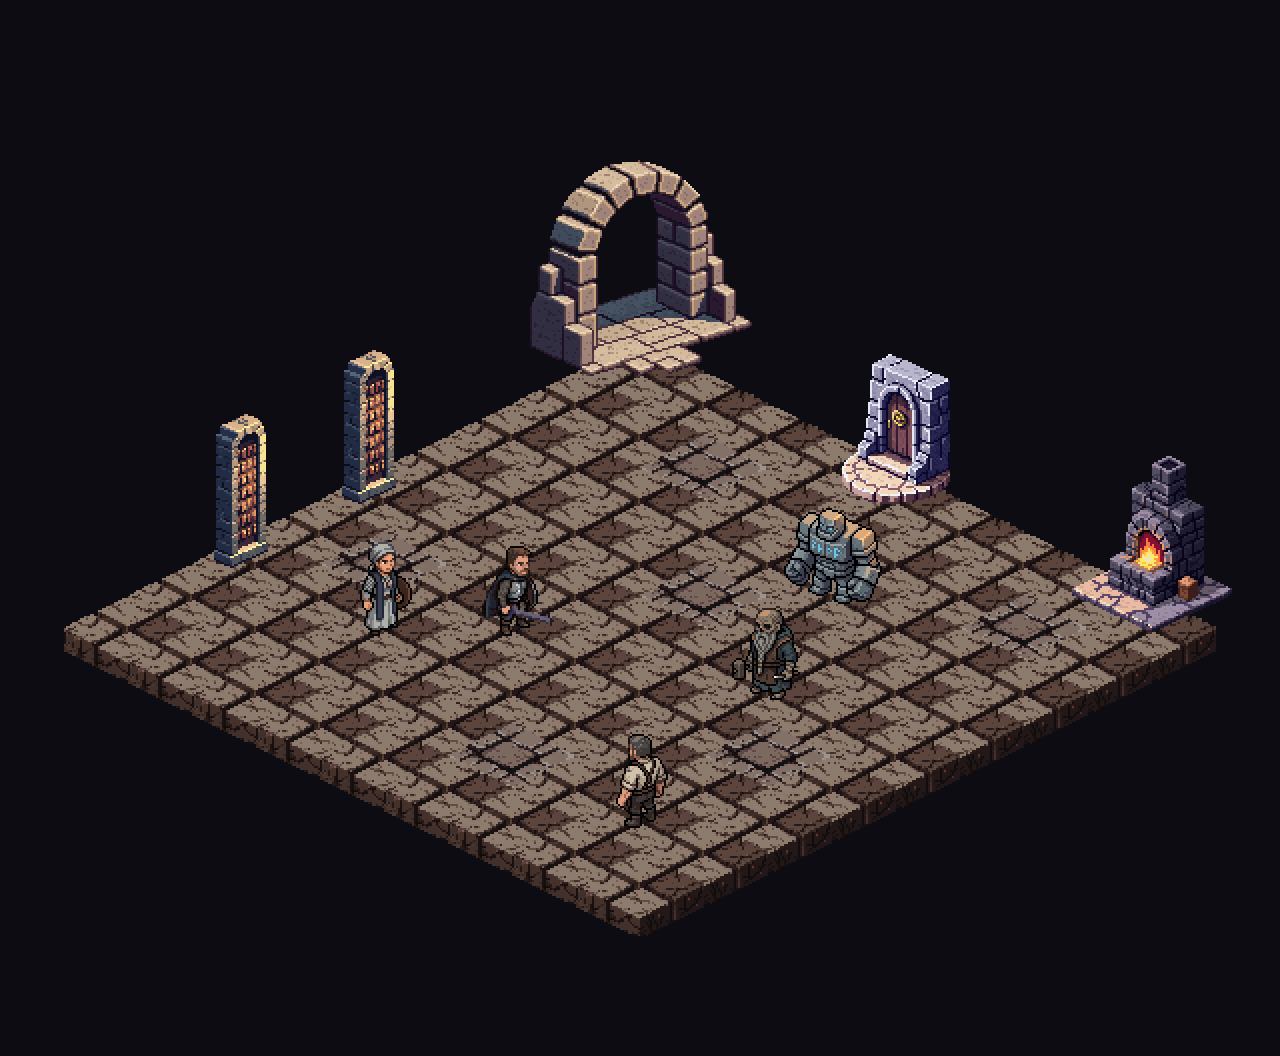
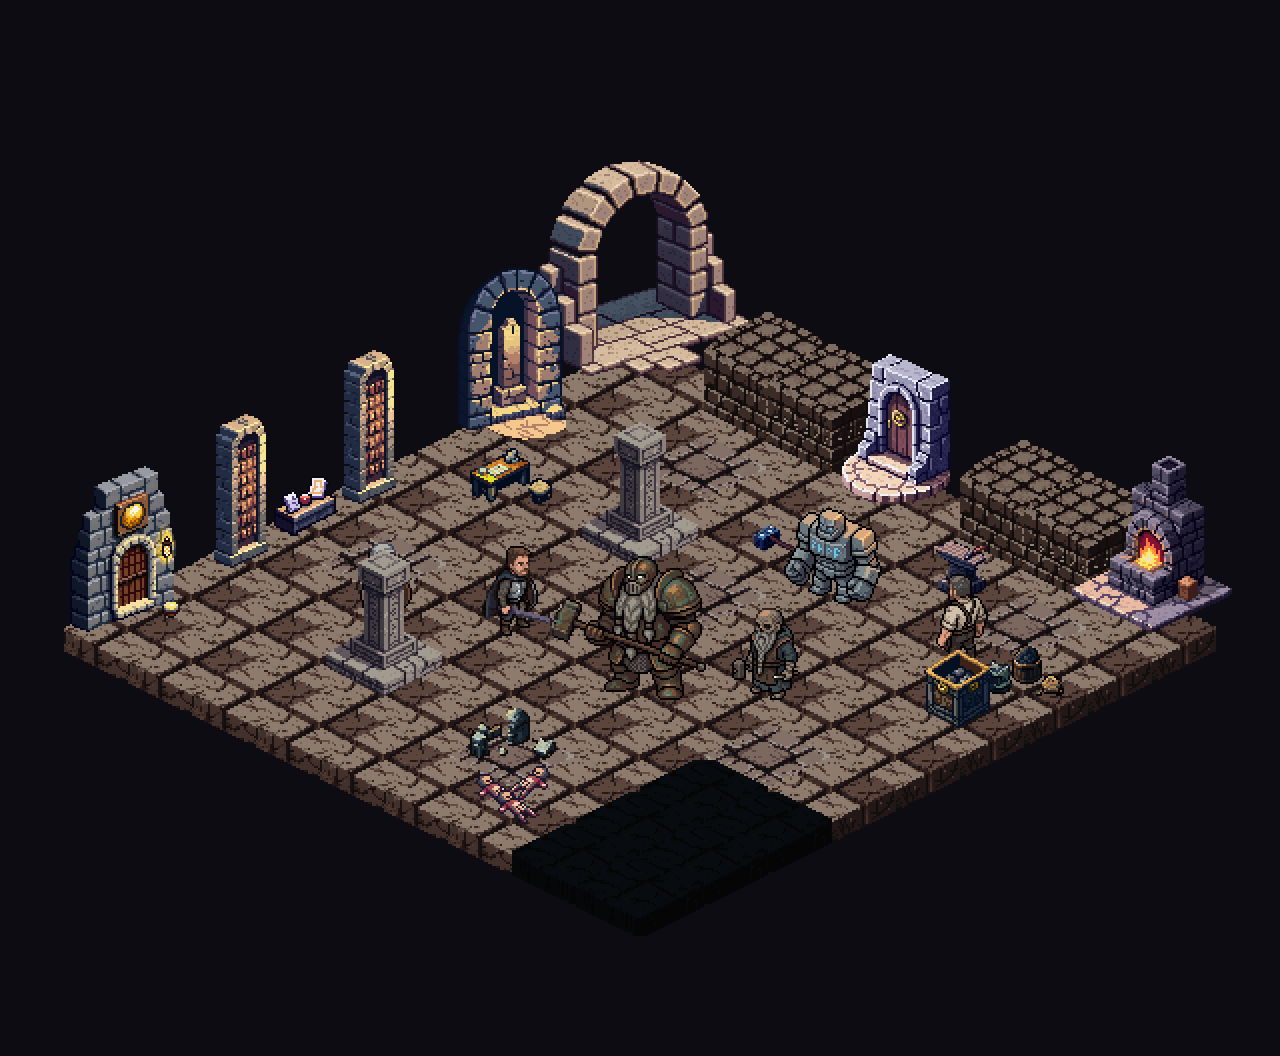
Глава 3: вторая партия графики залов, тайлы в боях и импорте
Пол пропасти, 15 предметов залов, основа Торвина; стены — кубы через iso-тайл
(объектами выходили домиками с дверью), часть вариантов доведена вручную (ch3_preview.py).
Бои залов получили тайлы (GROUND_ART dwarf*), import_art — бойцов и статику главы 3.

Claude-Session: https://claude.ai/code/session_01BjrJpKhoF5VFfF6rGeYCho

diff --git a/art/tools/ch3_batch2.py b/art/tools/ch3_batch2.py
@@ -2,6 +2,7 @@
 и основа Торвина. Как ch3_batch1.py: предметы по два seed в variants/, персонажи — основы в стиле Гаррета.
 
     python3 art/tools/ch3_batch2.py [tiles|chars|имя ...]     # --reroll имя... — ещё seed 3 и 4
+    python3 art/tools/ch3_batch2.py --blocks                  # стены кубами, variants/<имя>_b<seed>.png
 """
 import sys
 from pathlib import Path
@@ -14,11 +15,11 @@ from ch3_batch1 import CHARS_OUT, HALLS, run_jobs
 SETS = {
  "dwarf": {
   "tiles": {
-   "floor_chasm": FLAT + "a bottomless dark chasm seen from above, near-black void with a faint pale green-white glow far below through cracks, no rim, no border, seamless edges",
+   "floor_chasm": FLAT + "a bottomless chasm seen from above, an even near-black void with only very faint dark blue-grey mist, completely uniform, no light spots, no objects, no rim, no border, seamless edges",
   },
   "objects": {
-   "wall_block": (HALLS + "a solid block of dwarven masonry wall, large precisely cut warm-grey stone blocks, a cube filling the tile", 64, 64),
-   "wall_runes": (HALLS + "a solid block of dwarven masonry wall with one deep-cut line of angular runes, warm-grey stone, a cube filling the tile", 64, 64),
+   "wall_block": (HALLS + "a plain solid cube of dwarven masonry, large precisely cut warm-grey stone blocks on every face, flat grey stone top, no door, no window, no roof, no light", 64, 64),
+   "wall_runes": (HALLS + "a plain solid cube of dwarven masonry, large cut warm-grey stone blocks, one deep-cut band of angular runes across the front faces, flat grey stone top, no door, no window, no roof, no light", 64, 64),
    "rune_column": (HALLS + "a square carved dwarven stone column with angular runes on each face and a heavy capital", 64, 96),
    "stone_niche": (HALLS + "an empty tall stone wall niche carved in the rock where a stone guardian statue used to stand, broken stone fragments at its foot", 64, 96),
    "rune_brazier": (HALLS + "a squat dwarven stone brazier bowl on a carved rune pedestal with small warm flames", 32, 64),
@@ -28,13 +29,30 @@ SETS = {
    "coal_heap": (HALLS + "a heap of black coal with a shovel stuck in it beside a wooden barrow", 64, 64),
    "brew_door": (HALLS + "a low heavy wooden door bound with iron set in a carved stone wall, a carved tankard sign above it", 64, 96),
    "scribe_desk": (HALLS + "a low stone writing desk covered with thin rune tablets, stone chisels and a small mallet, a stone stool", 64, 64),
-   "child_tablets": (HALLS + "a small side niche with a short stone shelf of small thin rune tablets with large clumsy runes, a child's practice slate on top", 64, 64),
-   "floor_slab": (HALLS + "a single square floor slab lying very slightly raised, dust disturbed around its edges, flat on the ground", 64, 64),
-   "bones": (HALLS + "five human skeletons in tattered miner jackets lying close together against a rockfall, broken pickaxes, flat on the ground", 64, 64),
+   "child_tablets": (HALLS + "a single small low stone shelf, a free-standing object with no walls and no room, holding a few small thin stone tablets with large clumsy runes and a child's practice slate", 64, 64),
+   "floor_slab": (HALLS + "one loose square flagstone lying flat, a single isolated object with no walls and no room around it, its edges slightly raised and scraped, a thin ring of disturbed dust", 64, 64),
+   "bones": (HALLS + "several human skeletons in tattered miner jackets lying flat on their backs on the ground in a heap, seen from above, broken pickaxes beside them, nothing standing", 64, 64),
    "warhammer": (HALLS + "a huge dwarven long-hafted warhammer with an iron head lying flat on the stone floor", 64, 64),
   },
  },
 }
+# Стены объектами выходят домиками с дверью (seed 1–4); как в ch1_batch3.py — куб через create-isometric-tile (block).
+BLOCKS = {
+ "wall_block": "solid cube of dwarven masonry, large precisely cut warm-grey stone blocks on all visible faces, "
+               "the wall of an underground dwarven hall, no door, no window, no torch, no floor",
+ "wall_runes": "solid cube of dwarven masonry, large cut warm-grey stone blocks, one band of deep-cut angular runes "
+               "across the faces, the wall of an underground dwarven hall, no door, no window, no torch, no floor",
+}
+VARIANTS = p.ROOT / "art" / "chapter3" / "tiles" / "dwarf" / "variants"
+
+
+def block(name, seed):
+    out = VARIANTS / f"{name}_b{seed}.png"
+    if out.exists():
+        return out
+    return p.iso_tile(name, BLOCKS[name] + ", " + p.STYLE_ISO, out, shape="block", seed=seed)
+
+
 CHARS = {
  "torvin": "a huge undead dwarf warrior, the last keeper of the seal, broad and armoured in heavy green-patinaed bronze plate, very long grey beard braided with iron rings down to the belt, a riveted iron muzzle plate where the mouth should be, empty pale eyes, a long-hafted warhammer held in both hands, ",
 }
@@ -53,6 +71,12 @@ def char(name, desc):
 if __name__ == "__main__":
     args = sys.argv[1:]
     jobs, chars = [], []
+    if args[:1] == ["--blocks"]:
+        for n in BLOCKS:
+            for seed in (1, 2):
+                print("ok", block(n, seed).name, flush=True)
+        print(p.balance()["subscription"])
+        sys.exit()
     if args[:1] == ["--reroll"]:
         names = set(args[1:])
         jobs = [(k, s, n, sp, seed) for s in SETS for k in ("tiles", "objects") for n, sp in SETS[s][k].items()

diff --git a/art/tools/ch3_preview.py b/art/tools/ch3_preview.py
@@ -15,18 +15,32 @@ C3 = A / "chapter3/characters"
 """floor_hall_5, floor_rune_5 — floor_hall_4, floor_rune_3 с приглушённой насыщенностью (0.38) и яркостью (0.72)."""
 PICK = {"floor_hall": "floor_hall_5", "floor_rune": "floor_rune_5", "great_forge": "great_forge_1",
         "riddle_door": "riddle_door_1", "rune_arch": "rune_arch_2", "tablet_shelf": "tablet_shelf_2"}
-EXTRA = {}  # имя → вариант, добавляется партиями 2+
+"""wall_block_b5 — куб wall_runes_b2 в палитре floor_hall_5 (по яркости, ×0.92); wall_runes_b5 — он же с полосой
+вырезанных рун (рисованы); floor_chasm_5 — floor_chasm_4, контраст 0.35, яркость 0.55; rune_column_5 — rune_column_1 (цвет 0.6, яркость 0.68).
+floor_slab_5 — floor_slab_3 приглушённый (0.35, 0.8); bones_5 — три скелета из bones_4 (один отражён)."""
+EXTRA = {"floor_chasm": "floor_chasm_5", "wall_block": "wall_block_b5", "wall_runes": "wall_runes_b5",
+         "rune_column": "rune_column_5", "stone_niche": "stone_niche_2", "rune_brazier": "rune_brazier_1",
+         "rubble": "rubble_2", "anvil": "anvil_1", "steel_chest": "steel_chest_2", "coal_heap": "coal_heap_2",
+         "brew_door": "brew_door_2", "scribe_desk": "scribe_desk_2", "child_tablets": "child_tablets_4",
+         "floor_slab": "floor_slab_5", "bones": "bones_5", "warhammer": "warhammer_1"}
 N = 9
 SCENE = dict(
-    map=["hhhhhhhhh", "hhrhhhhrh", "hhhhhhhhh", "hhhhrhhhh", "hhhhhhhhh", "hrhhhhhrh", "hhhhhhhhh", "hhhhhrhhh", "hhhhhhhhh"],
-    key={"h": T / "floor_hall.png", "r": T / "floor_rune.png"},
+    map=["hhhhhhhhh", "hhrhhhhrh", "hhhhhhhhh", "hhhhrhhhh", "hhhhhhhhh", "hrhhhhhrh", "hhhhhhhcc", "hhhhhrhcc", "hhhhhhhcc"],
+    key={"h": T / "floor_hall.png", "r": T / "floor_rune.png", "c": T / "floor_chasm.png"},
     objs={(0, 0): T / "rune_arch.png", (4, 0): T / "riddle_door.png", (0, 4): T / "tablet_shelf.png",
-          (0, 6): T / "tablet_shelf.png", (8, 0): T / "great_forge.png"},
+          (0, 6): T / "tablet_shelf.png", (8, 0): T / "great_forge.png",
+          (2, 0): T / "wall_block.png", (3, 0): T / "wall_runes.png", (6, 0): T / "wall_block.png",
+          (7, 0): T / "wall_runes.png", (0, 2): T / "stone_niche.png", (0, 8): T / "brew_door.png",
+          (6, 1): T / "anvil.png", (8, 2): T / "coal_heap.png", (8, 3): T / "steel_chest.png",
+          (3, 3): T / "rune_column.png", (3, 7): T / "rune_column.png", (2, 2): T / "rune_brazier.png",
+          (1, 3): T / "scribe_desk.png", (0, 5): T / "child_tablets.png", (4, 4): T / "floor_slab.png",
+          (5, 7): T / "rubble.png", (6, 8): T / "bones.png", (4, 2): T / "warhammer.png"},
     chars={(3, 5): C / "hero_fighter_m/composited/idle/south-east/00.png",
            (2, 6): C / "hero_cleric_f/base/Idle/rotations/south-east.png",
            (5, 2): C3 / "stone_guardian/base/Idle/rotations/south-west.png",
            (6, 4): C3 / "dwarf_dead/base/Idle/rotations/south-west.png",
-           (7, 7): C1 / "smith/base/Idle/rotations/north-west.png"})
+           (7, 2): C1 / "smith/base/Idle/rotations/north-west.png",
+           (5, 5): C3 / "torvin/base/Idle/rotations/south-west.png"})
 
 
 def main():

diff --git a/game/tools/import_art.py b/game/tools/import_art.py
@@ -36,8 +36,8 @@ PORTRAIT_FILES = ("base_128.png", "base_64.png", "dark_1_dusk.png", "dark_2_gloo
 
 # Ноги персонажа во всех выгрузках PixelLab стоят на 23 px ниже центра холста (64, 80, 96, 112 и 128 px).
 FOOT_BELOW_CENTER = 23
-# Крупные персонажи на холсте 96×96 (страж шлюза главы 2): ноги ниже центра на столько.
-FOOT_BIG = {"sluice_guardian": 37}
+# Крупные персонажи на холсте 96×96 (страж шлюза главы 2, Торвин главы 3): ноги ниже центра на столько.
+FOOT_BIG = {"sluice_guardian": 37, "torvin": 37}
 
 # Анимация в игре → папка с кадрами относительно корня персонажа. "{d}" — направление.
 _HERO = {a: f"composited/{a}/{{d}}" for a in ("idle", "walk", "hit", "down", "attack")}
@@ -88,6 +88,9 @@ UNITS = {
 for _uid, _folder in {"drowned": "drowned_m", "drowned_f": "drowned_f", "smuggler": "smuggler", "renna": "renna",
 		"shrine_priest": "shrine_priest", "sluice_guardian": "sluice_guardian"}.items():
 	UNITS[_uid] = (ART / "chapter2" / "characters" / _folder, {**_PIXELLAB, "attack": "anims/attack/{d}"})
+# Глава 3: бойцы дварфийских залов (art/tools/ch3_batch3.py); архивариус — мёртвый дварф.
+for _uid, _folder in {"stone_guardian": "stone_guardian", "dwarf_archivist": "dwarf_dead", "torvin": "torvin"}.items():
+	UNITS[_uid] = (ART / "chapter3" / "characters" / _folder, {**_PIXELLAB, "attack": "anims/attack/{d}"})
 # Статичные персонажи (только стойка, 8 направлений) и позы «связан» — по картинке на направление:
 # game/art/units/static/<id>/<направление>.png, холст 64×64, ноги на 23 px ниже центра.
 STATICS = {
@@ -103,6 +106,10 @@ for _sid in ("holt", "mab", "boy", "prisoner_m", "prisoner_f", "white_woman", "s
 CH2 = ART / "chapter2" / "characters"
 for _sid in sorted(p.name for p in CH2.iterdir() if (p / "base" / "Idle" / "rotations").is_dir()) if CH2.is_dir() else ():
 	STATICS[_sid] = CH2 / _sid / "base" / "Idle" / "rotations"
+# Глава 3: стражи, мёртвые дварфы и Торвин на картах (art/chapter3/characters).
+CH3 = ART / "chapter3" / "characters"
+for _sid in ("stone_guardian", "dwarf_dead", "torvin"):
+	STATICS[_sid] = CH3 / _sid / "base" / "Idle" / "rotations"
 ANIM_ORDER = ("idle", "walk", "attack", "cast", "hit", "down")
 FPS = {"idle": 5, "walk": 12, "attack": 12, "cast": 12, "hit": 12, "down": 12}
 
@@ -127,7 +134,7 @@ LOCATION_FLOORS = {
 	# Затопленные выработки главы 2.
 	"flood_wade": "flooded/floor_wade", "flood_deep": "flooded/floor_deep", "flood_wet": "flooded/floor_wet",
 	# Дварфийские залы главы 3.
-	"dwarf_hall": "dwarf/floor_hall", "dwarf_rune": "dwarf/floor_rune",
+	"dwarf_hall": "dwarf/floor_hall", "dwarf_rune": "dwarf/floor_rune", "dwarf_chasm": "dwarf/floor_chasm",
 }
 
 ABILITY_ICONS = ("disengage", "dodge", "end_turn", "fire_bolt", "hallowed_ground", "healing_word", "magic_missile",
